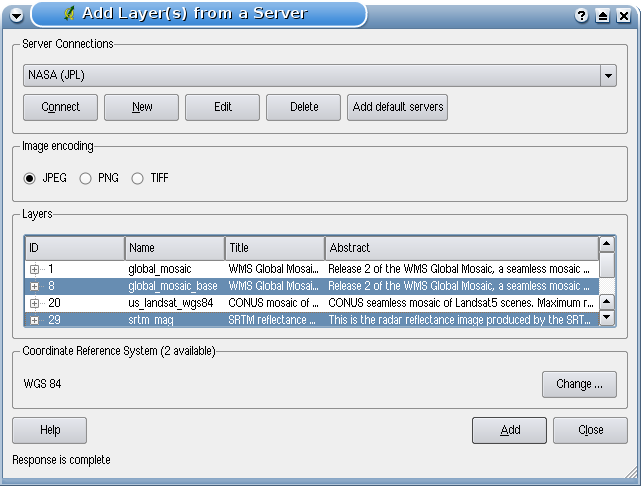
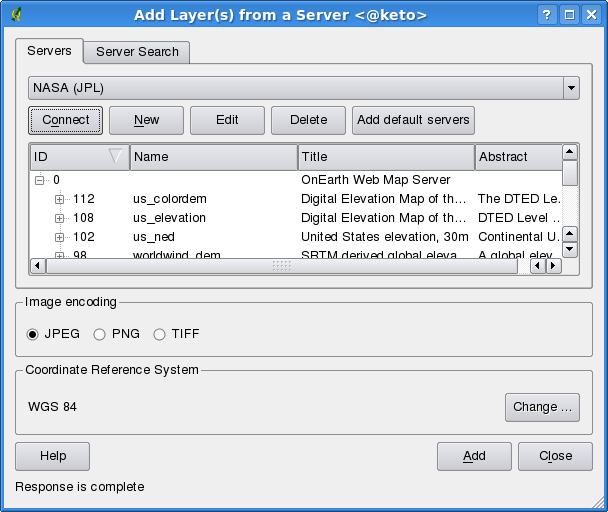
* working_with_ogc.tex, working_with_ogc_screenies/wms_server-search.png,   working_with_ogc_screenies/Makefile: updated to reflect the WMS-server-search-parts * working_with_ogc_screenies/connection_wms.png: updated screener
git-svn-id: https://svn.osgeo.org/qgis/docs/trunk@10650 c8812cc2-4d05-0410-92ff-de0c093fc19c

diff --git a/english_us/user_guide/working_with_ogc.tex b/english_us/user_guide/working_with_ogc.tex
@@ -108,26 +108,27 @@ in your URL.\index{WMS!remote server!URL}
 }
 \end{Tip}
 
-Table \ref{tab:wms_example_urls} shows some example WMS URLs to get you started.
-These links were last checked in April 2009, but could change at any time:
-
-%FIXME:  WMS URLs should be checked again and maybe extended in QGIS 
-\begin{table}[ht]\index{WMS!remote server!URL!examples}
-\centering
-\caption{Example Public WMS URLs}\label{tab:wms_example_urls}\medskip
- \begin{tabular}{|l|l|}
-\hline \textbf{Name}        & \textbf{URL} \\
-\hline Atlas of Canada      & http://atlas.gc.ca/cgi-bin/atlaswms\_en? \\
-\hline DEMIS                & http://www2.demis.nl/wms/wms.asp?wms=WorldMap\& \\
-\hline Geoscience Australia & http://www.ga.gov.au/wms/getmap?dataset=national\& \\
-\hline NASA JPL OnEarth     & http://wms.jpl.nasa.gov/wms.cgi? \\
-% \hline QGIS Users           & http://qgis.org/cgi-bin/mapserv?map=/var/www/maps/main.map\& \\
-\hline QGIS Users           & http://linfiniti.com:8080/geoserver/wms? \\
-\hline
-\end{tabular}
-\end{table}
-
-An exhaustive list of WMS servers can be found at \url{http://wms-sites.com}.
+% in QGIS 1.1.x not needed anymore since there is a search-interface 
+%%% Table \ref{tab:wms_example_urls} shows some example WMS URLs to get you started.
+%%% These links were last checked in April 2009, but could change at any time:
+%%% 
+%%% %FIXME:  WMS URLs should be checked again and maybe extended in QGIS 
+%%% \begin{table}[ht]\index{WMS!remote server!URL!examples}
+%%% \centering
+%%% \caption{Example Public WMS URLs}\label{tab:wms_example_urls}\medskip
+%%%  \begin{tabular}{|l|l|}
+%%% \hline \textbf{Name}        & \textbf{URL} \\
+%%% \hline Atlas of Canada      & http://atlas.gc.ca/cgi-bin/atlaswms\_en? \\
+%%% \hline DEMIS                & http://www2.demis.nl/wms/wms.asp?wms=WorldMap\& \\
+%%% \hline Geoscience Australia & http://www.ga.gov.au/wms/getmap?dataset=national\& \\
+%%% \hline NASA JPL OnEarth     & http://wms.jpl.nasa.gov/wms.cgi? \\
+%%% % \hline QGIS Users           & http://qgis.org/cgi-bin/mapserv?map=/var/www/maps/main.map\& \\
+%%% \hline QGIS Users           & http://linfiniti.com:8080/geoserver/wms? \\
+%%% \hline
+%%% \end{tabular}
+%%% \end{table}
+%%% 
+%%% An exhaustive list of WMS servers can be found at \url{http://wms-sites.com}.
 
 \subsubsection{Loading WMS Layers}\label{sec:ogc-wms-layers}\index{WMS!client!layers}
 
@@ -241,9 +242,47 @@ results can occur.
 }
 \end{Tip}
 
-% FIXME:
-% Adding a new section to the server-search tab.
+% 
+% server-search tab.
 %
+\subsubsection{Server-Search}
+\label{sec:serversearch}
+\index{WMS!serversearch}
+\index{WMS!search}
+\index{OGC!search}
+
+Within QGIS 1.1.X you can search for WMS-servers. 
+Figure \ref{fig:searchtab} shows the newly created \tab{search}-tab with
+the \dialog{Add Layer(s) from a Server}-dialog.
+
+\begin{figure}[ht]
+  \begin{center}
+  	\caption{Dialog for searching WMS servers after some keywords \nixcaption}\label{fig:searchtab}
+	\includegraphics[clip=true,width=0.6\textwidth]{wms_server-search}
+  \end{center}
+\end{figure}
+
+As you can see it is possible to enter a search-string in the textfield an
+hit the \button{Search} button.
+
+After a short while the search result will be populated into the tab below
+the textfield. 
+
+Browse the result list and inspect your searchresults within the table. To
+visualize the results, select an table entry, press the \button{Add
+selected row to WMS-list} button and change back to the \tab{server} tab.
+
+QGIS automatically has updated your server list and the selected
+searchresult is already enabled in the list of saved WMS-servers.
+
+You only need to request the list of layers by clicking the
+\button{Connect} button.
+
+This option is quite handy when you want to search maps by specific
+keywords.
+
+Basically this option is a frontend to the API of
+\url{http://geopole.org}.
 
 \subsubsection{Using the Identify Tool}\label{sec:ogc-wms-identify}
 \index{WMS!identify}
@@ -443,7 +482,7 @@ This means that only WFS 1.0.0 is supported. At this point there have not
 been many test against over WFS versions implemented in other WFS-servers.
 If you encounter problems with any other WFS-server, please do not
 hesitate to contacting the development team. Please refer to Section 
-l\ref{abel_helpsupport} for further information about the mailinglists.
+\ref{label_helpsupport} for further information about the mailinglists.
 
 \begin{Tip}[ht]\caption{\textsc{Finding WMS and WFS Servers}}
 \qgistip{You can find additional WMS and WFS servers by using Google or your
